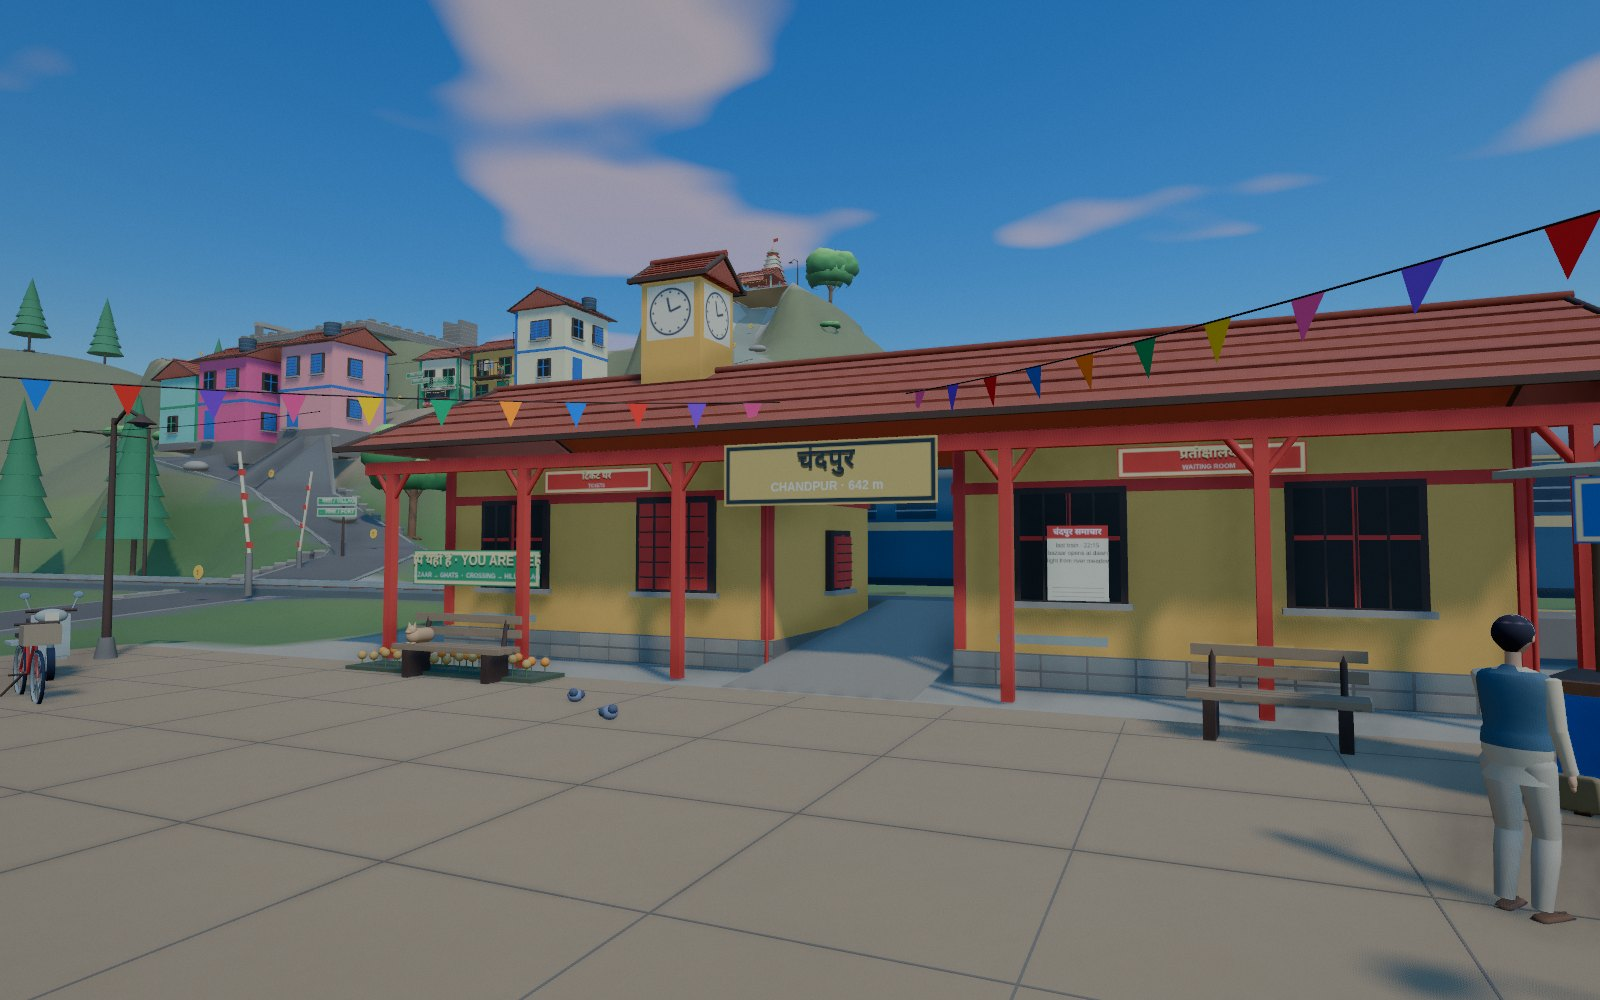
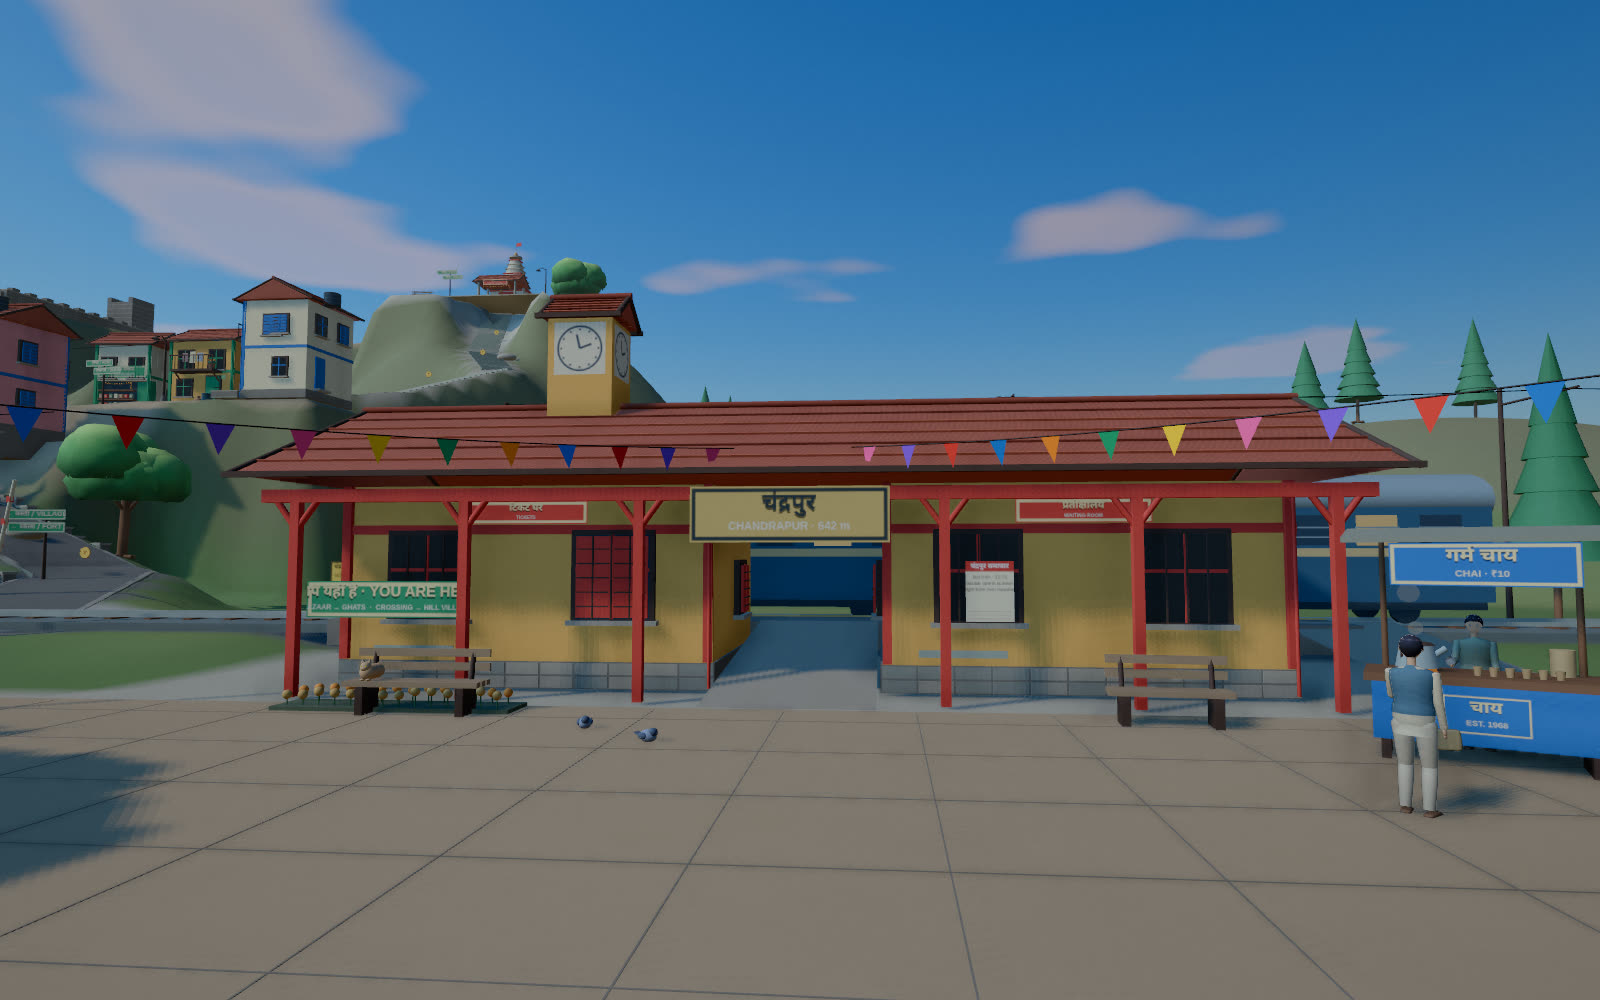
Rename in-world signs to Chandrapur; screenshots, README and article draft

diff --git a/src/world/generators.js b/src/world/generators.js
@@ -121,7 +121,7 @@ function buildingShell({ w, d, h, wall, trim, seed, shop = false, roof = true })
   return g;
 }
 
-export function makeShop({ w = 4.5, d = 5.2, h = 6.2, seed = 1, name = 'shop', text = 'चंदपुर भंडार', sub = 'GENERAL STORE',
+export function makeShop({ w = 4.5, d = 5.2, h = 6.2, seed = 1, name = 'shop', text = 'चंद्रपुर भंडार', sub = 'GENERAL STORE',
   wall = C.plaster, trim = C.indigo, kind = 'grocer', closed = false, balcony = true, awning = true } = {}) {
   const g = buildingShell({ w, d, h, wall, trim, seed, shop: true }); g.name = name;
   const f = d / 2;
@@ -372,7 +372,7 @@ export function makeRickshaw({ color = C.green, seed = 1 } = {}) {
   box(g, 0.95, 0.08, 0.12, C.timber, 0, 1.25, 0.91);
   plane(g, 0.87, 0.56, new THREE.MeshBasicMaterial({ color: '#526d79', transparent: true, opacity: 0.58, side: THREE.DoubleSide }), 0, 1.53, 0.79);
   for (const x of [-0.25, 0.25]) plane(g, 0.16, 0.11, flat('#dfce9c'), x, 0.95, 1.035);
-  const plate = textSign({ text: 'चंदपुर', sub: `UK 08 · ${2180 + seed}`, w: 0.6, h: 0.19, bg: '#c5b86a', fg: '#24343d' }); plate.position.set(0, 0.65, 1.04); g.add(plate);
+  const plate = textSign({ text: 'चंद्रपुर', sub: `UK 08 · ${2180 + seed}`, w: 0.6, h: 0.19, bg: '#c5b86a', fg: '#24343d' }); plate.position.set(0, 0.65, 1.04); g.add(plate);
   return g;
 }
 
@@ -568,7 +568,7 @@ export function makeRailwayStation({ seed = 1 } = {}) {
     beam(g, [x, 2.82, 3.22], [x - 0.45, 3.43, 3.22], 0.055, C.red);
   }
   box(g, 18.2, 0.22, 0.18, C.red, 0, 3.4, 3.22);
-  const name = textSign({ text: 'चंदपुर', sub: 'CHANDPUR · 642 m', w: 3.25, h: 0.91, bg: '#d4b85e', fg: '#27353b', accent: '#27353b' }); name.position.set(0, 3.05, 3.36); g.add(name);
+  const name = textSign({ text: 'चंद्रपुर', sub: 'CHANDRAPUR · 642 m', w: 3.25, h: 0.91, bg: '#d4b85e', fg: '#27353b', accent: '#27353b' }); name.position.set(0, 3.05, 3.36); g.add(name);
   // Clock remains visible from the return lane and upper terraces.
   box(g, 1.35, 2.1, 1.35, C.ochre, -4.65, 6.2, -0.62, 'station-clock-tower');
   const clockTex = makeCanvasTexture(128, 128, (ctx) => {

diff --git a/src/world/districts/station-quarter.js b/src/world/districts/station-quarter.js
@@ -35,7 +35,7 @@ export function buildStationQuarter(root) {
   // of teleport buttons. The world map repeats the same physical graph.
   const notice = textSign({ text: 'आप यहाँ हैं · YOU ARE HERE', sub: 'BAZAAR → GHATS  ·  CROSSING → HILL VILLAGE', w: 3.0, h: 0.65, bg: C.green });
   notice.position.set(-7.3, 1.6, -8.92); g.add(notice);
-  const bill = poster({ title: 'चंदपुर समाचार', lines: ['last train · 22:15', 'bazaar opens at dawn', 'flight from river meadow'], w: 0.8, h: 1.02 });
+  const bill = poster({ title: 'चंद्रपुर समाचार', lines: ['last train · 22:15', 'bazaar opens at dawn', 'flight from river meadow'], w: 0.8, h: 1.02 });
   bill.position.set(3.3, 1.78, -8.95); g.add(bill);
   // Station-workers' houses are the connective tissue on the western return
   // lane. Their front doors and utility service face that lane.
@@ -89,7 +89,7 @@ function buildRailway(g) {
       window.rotation.y = s < 0 ? Math.PI : 0;
       for (const yy of [2.13, 2.37]) box(train, 1.02, 0.035, 0.035, '#778c95', cx - 5.2 + i * 1.48, yy, s * 1.31);
     }
-    const destination = textSign({ text: 'चंदपुर — देहरादून', sub: 'NIGHT PASSENGER', w: 2.1, h: 0.32, bg: '#bfae77', fg: '#263c4a' });
+    const destination = textSign({ text: 'चंद्रपुर — देहरादून', sub: 'NIGHT PASSENGER', w: 2.1, h: 0.32, bg: '#bfae77', fg: '#263c4a' });
     destination.position.set(cx, 3.0, 1.315); train.add(destination);
   }
   place(g, train, 3.2, RAIL_Z, 0, 0.69);

diff --git a/src/world/layout.js b/src/world/layout.js
@@ -1,6 +1,6 @@
 import * as THREE from 'three';
 
-// Chandpur: a single lower-hill river valley. All coordinates and grades are
+// Chandrapur: a single lower-hill river valley. All coordinates and grades are
 // original. Route data is shared by civil works, feet, navigation and checks.
 export const WORLD_STAGE = 'full';
 export const WORLD_BOUNDS = { x0: -110, x1: 93, z0: -100, z1: 94 };
@@ -24,7 +24,7 @@ export const MOON_HOME = new THREE.Vector3(76, 51, 133);
 export const MOON_DOWN = new THREE.Vector3(49, 12, 76);
 
 export const DISTRICTS = [
-  { id: 'station', name: 'Old Railway Station', hi: 'चंदपुर स्टेशन', anchor: [0, 0, -2], radius: 21, stage: 'river' },
+  { id: 'station', name: 'Old Railway Station', hi: 'चंद्रपुर स्टेशन', anchor: [0, 0, -2], radius: 21, stage: 'river' },
   { id: 'bazaar', name: 'Old Bazaar', hi: 'पुराना बाज़ार', anchor: [18, 0, 24], radius: 22, stage: 'river' },
   { id: 'river', name: 'Riverside Ghats', hi: 'नदी के घाट', anchor: [24, -0.15, 49], radius: 17, stage: 'river' },
   { id: 'village', name: 'Hill Village', hi: 'पहाड़ी बस्ती', anchor: [-48, 10.5, -39], radius: 19, stage: 'hills' },

diff --git a/src/world/balloon-travel.js b/src/world/balloon-travel.js
@@ -241,7 +241,7 @@ function buildPassengerBalloon() {
   });
   const profile = [[0.43, 3.45], [0.82, 4.25], [1.7, 5.7], [2.8, 7.5], [3.25, 9], [3.1, 10.2], [2.55, 11.2], [1.6, 12.1], [0.55, 12.65], [0, 12.75]].map(([r, y]) => new THREE.Vector2(r, y));
   const envelope = mesh(g, new THREE.LatheGeometry(profile, 40), toonMaterial(0xffffff, { map: tex, emissiveMap: tex, emissive: '#dba864', emissiveIntensity: 0.15, side: THREE.DoubleSide, paint: 0.02 }), [0, 0, 0], 'passenger-balloon-envelope');
-  const serial = textSign({ text: 'चंदपुर', sub: 'VALLEY AIR · CP-01', w: 1.12, h: 0.42, bg: C.indigo }); serial.position.set(0, 0.63, d / 2 + 0.063); g.add(serial);
+  const serial = textSign({ text: 'चंद्रपुर', sub: 'VALLEY AIR · CP-01', w: 1.12, h: 0.42, bg: C.indigo }); serial.position.set(0, 0.63, d / 2 + 0.063); g.add(serial);
   const burnerGlow = lightPool(1.15, 0xffb66a, 0.07); burnerGlow.position.set(0, 0.238, 0); g.add(burnerGlow);
   return { group: g, envelope, flame, gate };
 }

diff --git a/src/world/districts/hills.js b/src/world/districts/hills.js
@@ -94,7 +94,7 @@ export function buildHillDistricts(root) {
   place(fort, gate, -81.4, -58.1, 0, PAD.y);
   place(fort, makeBench({ w: 2.0, stone: true }), -76.8, -56.2, 0, PAD.y);
   place(fort, makeStreetSign({ labels: ['देवस्थान / SHRINE', 'बस्ती / VILLAGE'], directions: [1, -1] }), -75.4, -64.5, 0, PAD.y);
-  const mapBoard = textSign({ text: 'चंदपुर की घाटी', sub: 'STATION · BAZAAR · RIVER · VALLEY VIEW', w: 2.7, h: 0.65, bg: '#52645b' });
+  const mapBoard = textSign({ text: 'चंद्रपुर की घाटी', sub: 'STATION · BAZAAR · RIVER · VALLEY VIEW', w: 2.7, h: 0.65, bg: '#52645b' });
   mapBoard.position.set(-69.4, PAD.y + 0.84, -55.4); mapBoard.rotation.x = -0.32; fort.add(mapBoard);
   cylinder(fort, 0.04, 0.05, 0.73, C.timber, -70.3, PAD.y + 0.37, -55.45, 6);
   cylinder(fort, 0.04, 0.05, 0.73, C.timber, -68.5, PAD.y + 0.37, -55.45, 6);

diff --git a/src/main.js b/src/main.js
@@ -116,8 +116,8 @@ const hud = createGameHUD({ onMoon: toggleMoon, onSound: toggleSound, onVoices: 
   onRestart: () => { try { localStorage.removeItem('chandrapur-save-v2'); localStorage.removeItem('chandpur-save-v2'); } catch { /* ok */ } location.reload(); } });
 const game = createGame({ scene, player, town, life, balloon, day, moon, music, voice, hud, toggleMoon });
 
-// decorative glows must not feed the ink pass: sprites, points, lines,
-// light pools/cones, halos go to layer 1 (colour pass only)
+// decorative glows (sprites, points, lines, light pools/cones, halos) live on
+// layer 1 so probes can tell them from solid geometry; the colour pass draws all layers
 scene.traverse((o) => {
   if (o.isSprite || o.isPoints || o.isLine) o.layers.set(1);
   else if (o.isMesh && (o.name === 'light-pool' || o.name === 'light-cone')) o.layers.set(1);

diff --git a/src/world/foliage.js b/src/world/foliage.js
@@ -1,4 +1,4 @@
-// Smooth cel-shaded foliage for Chandpur, ported from Sakura Crossing's
+// Smooth cel-shaded foliage for Chandrapur, ported from Sakura Crossing's
 // foliage library (the shrub core): welded, indexed cloud surfaces built
 // from round leaf puffs, with normals blended toward the ellipsoid so the
 // toon ramp gives soft painted terminators and clean scalloped silhouettes.
@@ -113,7 +113,7 @@ function icoBase(detail) {
 
 const _cache = new Map();
 
-// Chandpur's night-greens: moonlit crowns, cool shadowed bases
+// Chandrapur's night-greens: moonlit crowns, cool shadowed bases
 export const NIGHT_GREENS = { top: '#6cc48e', mid: '#38905f', base: '#1e5a48' };
 export const NIGHT_GREENS_DARK = { top: '#55a878', mid: '#2c7a50', base: '#1a4e40' };
 

diff --git a/src/world/props.js b/src/world/props.js
@@ -78,7 +78,7 @@ export function timetable({ w = 1.9, h = 1.15 } = {}) {
     ctx.strokeStyle = '#1a1a1a'; ctx.lineWidth = 5; ctx.strokeRect(3, 3, W - 6, H - 6);
     ctx.fillStyle = '#111'; ctx.textAlign = 'left'; ctx.textBaseline = 'top';
     ctx.font = `bold 22px ${DE}`;
-    ctx.fillText('चंदपुर — CHANDPUR', 12, 10);
+    ctx.fillText('चंद्रपुर — CHANDRAPUR', 12, 10);
     ctx.font = `17px sans-serif`;
     const rows = [['6035 UP', '22:15', 'last ▲'], ['6036 DN', '05:40', 'first ▼'], ['—', '—', 'passenger halt']];
     rows.forEach((r, i) => ctx.fillText(`${r[0]}  ${r[1]}  ${r[2]}`, 14, 42 + i * 30));

diff --git a/src/world/shops.js b/src/world/shops.js
@@ -266,7 +266,7 @@ export function createShops(scene) {
   // W3 — the hotel, bulbs strung, kitchen still glowing
   place(group, makeBuilding({
     w: 6.5, d: 6, h: 5, floors: 1, roof: 'gable', name: 'hotel',
-    wallColor: 0xa88868, roofColor: 0x54483c, signText: 'होटल चंदपुर', signSub: 'HOTEL CHANDPUR · PURE VEG',
+    wallColor: 0xa88868, roofColor: 0x54483c, signText: 'होटल चंद्रपुर', signSub: 'HOTEL CHANDRAPUR · PURE VEG',
     signBg: '#7a2c22', signFg: '#ffffff', noren: true, shopGlow: 0xffa04a, tank: false, toran: true,
   }), -8.2, 23.5, Math.PI / 2);
 

diff --git a/src/world/trees.js b/src/world/trees.js
@@ -6,7 +6,7 @@ import { shrubGeometry, NIGHT_GREENS, NIGHT_GREENS_DARK } from './foliage.js';
 import { mergeGeometries } from 'three/addons/utils/BufferGeometryUtils.js';
 
 // ============================================================
-// Chandpur's trees, after Sakura Crossing's foliage lesson:
+// Chandrapur's trees, after Sakura Crossing's foliage lesson:
 // canopies are welded cloud surfaces of round leaf puffs
 // (scalloped painted silhouettes, soft toon terminators —
 // never faceted low-poly balls), merged from several offset

diff --git a/src/world/people.js b/src/world/people.js
@@ -6,7 +6,7 @@ import { Driver, rot, rotMul } from './people/anim.js';
 import { clamp, lerp, smooth, limb, ellipsoid, rbox, rings } from './people/skin.js';
 
 // ============================================================
-// The people of Chandpur, rebuilt the Sakura Crossing way:
+// The people of Chandrapur, rebuilt the Sakura Crossing way:
 // one skinned, painted person each — kurta-pyjama, sarees with
 // pleated drapes and swaying pallus, salwar-kameez — pouring
 // chai, fanning doorways, walking home with jhola bags,

diff --git a/src/world/station.js b/src/world/station.js
@@ -97,7 +97,7 @@ export function createStation(scene) {
 
   // the yellow station boards — platform side + square side
   const hangSign = (z, ry) => {
-    const s = textSign({ text: 'चंदपुर', sub: 'CHANDPUR', w: 3.6, h: 0.95, bg: '#e8c832', fg: '#1a1a1a', accent: '#1a1a1a' });
+    const s = textSign({ text: 'चंद्रपुर', sub: 'CHANDRAPUR', w: 3.6, h: 0.95, bg: '#e8c832', fg: '#1a1a1a', accent: '#1a1a1a' });
     s.position.set(0, 2.42, z);
     s.rotation.y = ry;
     B.add(s);
